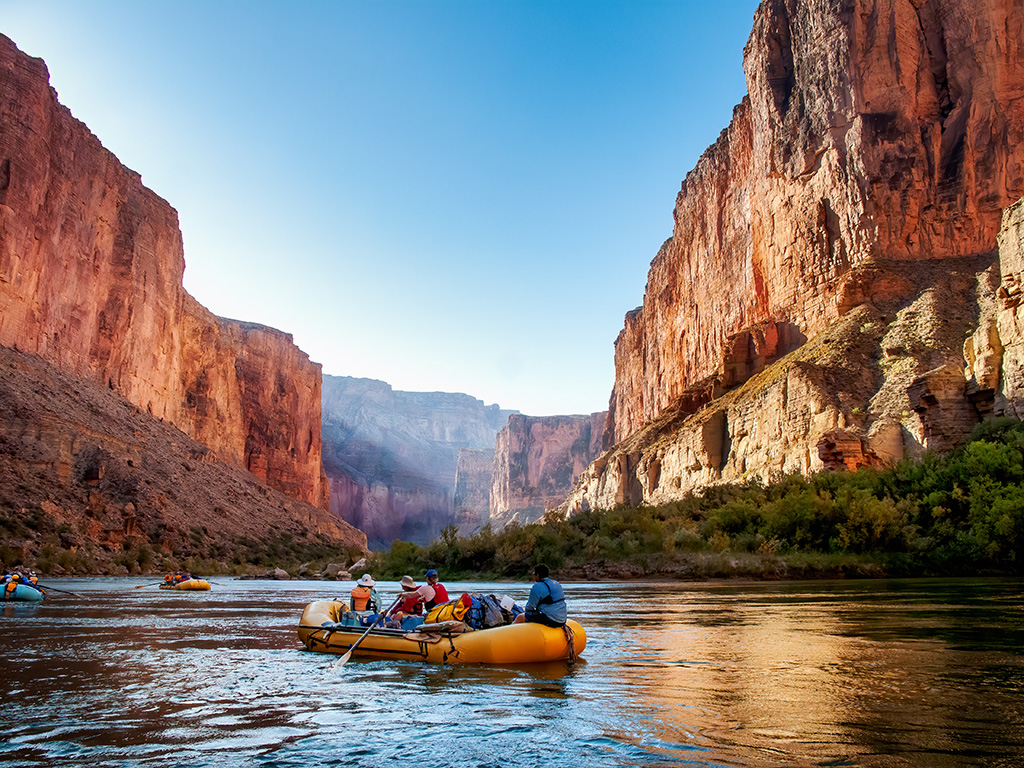
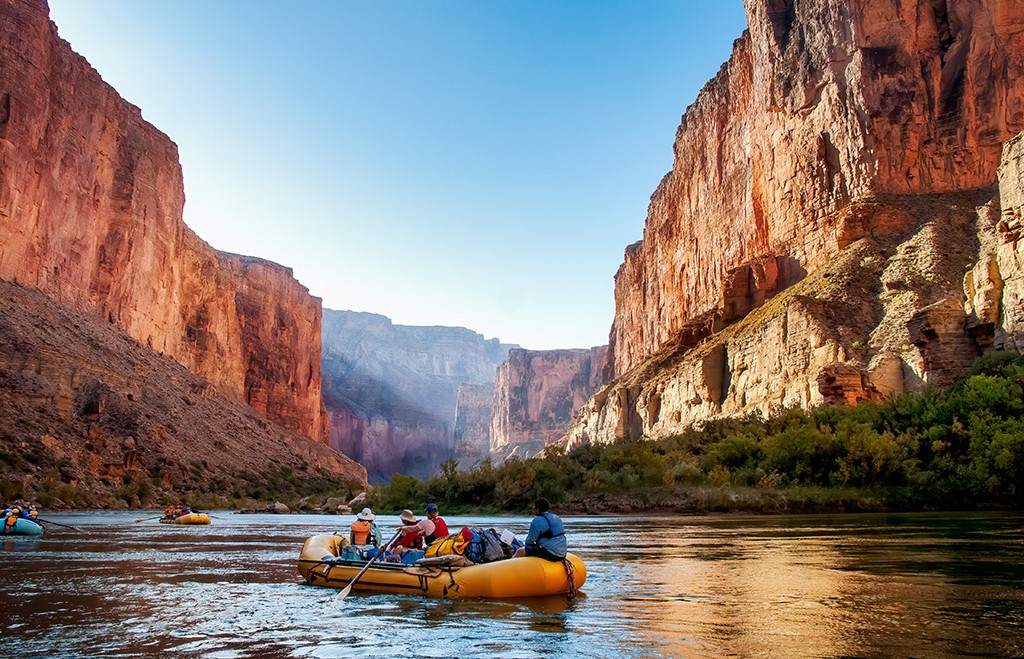
grids aligned, buttons circled

diff --git a/wwr/rivers.html b/wwr/rivers.html
@@ -16,9 +16,9 @@
             </a>
             <nav>
                 <a href="index.html" target="_blank">Home</a>
-                <a href="offers.html" target="_blank">Offers</a>
+                <a href="rivers.html" target="_blank">Rivers</a>
                 <a href="site-plan-rafting.html" target="_blank">Site Plan</a>
-                <a href="contactus.html" target="_blank">Contact Us</a>
+                <a href="index.html" target="_blank">Contact Us</a>
             </nav>
         </header>
         <div id="riverMain">
@@ -54,7 +54,7 @@
                     warmer water more.
                 </p>
                 <div id="idahoButton">
-                    <a class='book' href="rivers.html">Book Now</a>
+                    <a class='book' href="index.html" target="_blank">Book Now</a>
                 </div>
             </figure>
 
@@ -81,7 +81,7 @@
                     uniqueness and rich history that the canyon tells.
                 </p>
                 <div id="utahButton">
-                    <a class='book' href="rivers.html">Book Now</a>
+                    <a class='book' href="index.html" target="_blank">Book Now</a>
                 </div>
             </figure>
 
@@ -106,7 +106,7 @@
                     often refer to both.
                 </p>
                 <div class id="arizonaButton">
-                    <a class='book' href="rivers.html">Book Now</a>
+                    <a class='book' href="index.html" target="_blank">Book Now</a>
                 </div>
 
 

diff --git a/wwr/styles/style.css b/wwr/styles/style.css
@@ -292,8 +292,8 @@ footer .social img {
 
 #idaho {
     display: grid;
-    grid-template-columns: 1fr 6fr 6fr 2fr 3fr 2fr;
-    grid-template-rows: 50px 550px 200px 100px 50px;
+    grid-template-columns: 1fr 10fr 2fr 2fr 3fr 2fr;
+    grid-template-rows: 50px 600px 150px 100px 50px;
     margin-bottom: 130px;
 }
 
@@ -340,14 +340,15 @@ footer .social img {
     text-align: center;
     z-index: 1;
     font-weight: bold;
+
 }
 
 /*Utah*/
 
 #utah {
     display: grid;
-    grid-template-columns: 1fr 6fr 6fr 2fr 3fr 2fr;
-    grid-template-rows: 50px 550px 200px 100px 50px;
+    grid-template-columns: 1fr 10fr 2fr 2fr 3fr 2fr;
+    grid-template-rows: 50px 600px 150px 100px 50px;
     margin-bottom: 130px;
 }
 
@@ -401,8 +402,8 @@ footer .social img {
 
 #arizona {
     display: grid;
-    grid-template-columns: 1fr 6fr 6fr 2fr 3fr 2fr;
-    grid-template-rows: 50px 550px 200px 100px 50px;
+    grid-template-columns: 1fr 10fr 2fr 2fr 3fr 2fr;
+    grid-template-rows: 50px 600px 150px 100px 50px;
     margin-bottom: 130px;
 }
 

diff --git a/wwr/index.html b/wwr/index.html
@@ -18,7 +18,7 @@
                 <a href="index.html" target="_blank">Home</a>
                 <a href="rivers.html" target="_blank">Rivers</a>
                 <a href="site-plan-rafting.html" target="_blank">Site Plan</a>
-                <a href="contactus.html" target="_blank">Contact Us</a>
+                <a href="index.html" target="_blank">Contact Us</a>
             </nav>
         </header>
 
@@ -30,7 +30,7 @@
                 <h1 class="home-title">Have An Adventure</h1>
                 <h4>Make Memories with FUNRAFT </h4>
                 <div class='button-box'>
-                    <a class='book' href="offers.html">Book Now</a>
+                    <a class='book' href="rivers.html">Book Now</a>
                 </div>
             </section>
         </div>
